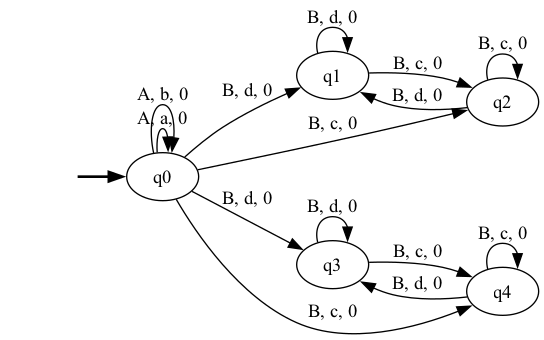
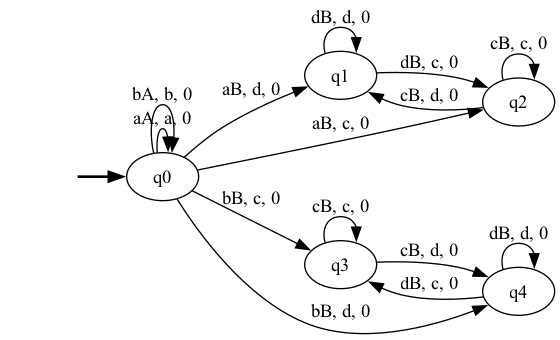
try

diff --git a/src/utils_pdfa/learnRDP.py b/src/utils_pdfa/learnRDP.py
@@ -27,20 +27,20 @@ def learnRDP2(H, obs, thres):
         # traj1 = trajs.pop(0)
 
         AO = get_candidate(o1,u1, H)  #get ao sets (can we get this set at thw start?
-        print("from ", o1, u1.name, " getting candidates : ")
-        print("AO",AO)
+        # print("from ", o1, u1.name, " getting candidates : ")
+        # print("AO",AO)
         for ao in AO:
             a2 = ao[0]
             o2 = ao[1]
             o2_int = get_int(o2)
             # print(o1, u1.name, ao)
-            print("time", u1.t)
+            # print("time", u1.t)
             traj2 = get_suffixes(pdfa, o1, u1, ao)
 
             #crete new candidate state here
             q2 = RDPState(pdfa.get_name(), u1, ao[0], o2, 0)
             q2.ix = traj2
-            print("name + trajs", q2.name, q2.ix)
+            # print("name + trajs", q2.name, q2.ix)
 
             # q2.add_traj(traj2,o1)
             q2.add_traj(traj2,o2)
@@ -49,7 +49,7 @@ def learnRDP2(H, obs, thres):
             for k in range(i[o2_int]):
                 #get all the u that are prefaced by o
                 q3 = states[o2_int][k]
-                print("comparing ", q2.name, " ", q3.name)
+                # print("comparing ", q2.name, " ", q3.name)
                 similar = test_distinct(q3, q2, o2, H, thres)
                 if similar and merge==False:
                     j = k
@@ -58,13 +58,13 @@ def learnRDP2(H, obs, thres):
             if merge==True:
                 #add the new state
                 q3 = state_to_merge_to
-                print("merging ", q2.name, " to ", q3.name)
-                print("adding transition", o1, q2.parent.name, q3.name, a2, o2, 0)
+                # print("merging ", q2.name, " to ", q3.name)
+                # print("adding transition", o1, q2.parent.name, q3.name, a2, o2, 0)
                 pdfa.add_transition(o1, q2.parent, q3, a2, o2, 0,  True)  #merge
                 # queue.append([o1, q2])
             else:
-                print("promoting", q2.name)
-                print("adding transition", [o1, q2.parent.name, q2.name, a2, o2, 0])
+                # print("promoting", q2.name)
+                # print("adding transition", [o1, q2.parent.name, q2.name, a2, o2, 0])
                 pdfa.add_transition(o1, q2.parent, q2, a2, o2, 0)
                 # pdfa.add_transition(o1, parent, q2)  #promote
                 queue.append([o2, q2])
@@ -72,7 +72,7 @@ def learnRDP2(H, obs, thres):
                 states[o2_int].append(q2)
                 q2.add_traj(traj2, o2)
                 i[o2_int] = i[o2_int] + 1
-    print(pdfa.transitions)
+    # print(pdfa.transitions)
     return pdfa
 
 

diff --git a/run.py b/run.py
@@ -4,7 +4,7 @@ import numpy as np
 from src.utils_pdfa.renderRDP import render
 import sys
 from src.utils_pdfa.save_to_json import save_json
-
+import time
 def main():
     H = int(sys.argv[2])
     K = int(sys.argv[3])
@@ -27,7 +27,10 @@ def main():
         RDPState.Rew[:, H - 1 - j] = [RDPState.Rew[i, H - 1 - j].union(RDPState.Rew[i, H - j]) for i in range(K)]
         RDPState.Trp[:, H - 1 - j] = [RDPState.Trp[i, H - 1 - j].union(RDPState.Trp[i, H - j]) for i in range(K)]
         # RDPState.Trptrp[:, H - 1 - j] = [RDPState.Trptrp[i, H - 1 - j].union(RDPState.Trptrp[i, H - j]) for i in range(K)]
+    t = time.time()
     RDP = learnRDP2(H,6, thres)
+    print("time taken: ", time.time()-t)
+
 #    RDP = learnRDP(H, thres)
 #     print("State space: ", len(RDP.states))
 

diff --git a/src/utils_pdfa/RDP_utils.py b/src/utils_pdfa/RDP_utils.py
@@ -55,11 +55,11 @@ def test_distinct(q1, q2, o, H, thres):
     q2_prob = q2.operatorC13()
     # print("here", q1_prob, q2_prob)
     seq = list(set(q1_prob[:, 0])) + list(set(q2_prob[:, 0]) - set(q1_prob[:, 0]))
-    print("comparing", q1.name, q2.name)
+    # print("comparing", q1.name, q2.name)
     for s in seq:
         p1 = get_probability(s, q1_prob)
         p2 = get_probability(s, q2_prob)
-        print(s, p1, p2, np.abs(p1 - p2))
+        # print(s, p1, p2, np.abs(p1 - p2))
         if np.abs(p1 - p2) > thres:
             return False
     return True

diff --git a/src/utils_pdfa/RDPState.py b/src/utils_pdfa/RDPState.py
@@ -113,7 +113,7 @@ def simTMaze(filename, K, H):
         D[k, 0] = '{}{}{}'.format( chr(65 + a), chr(97 + o), chr(48 + rewmap[r]))
         # go east H - 1 times
         for i in range(H):
-            print("here ", str(a), " ", str(o), " ", str(sp), " ", str(r))
+            # print("here ", str(a), " ", str(o), " ", str(sp), " ", str(r))
             #a = np.random.randint(len(sim.actions))
             a = np.random.choice([0,1,2,3], 1, p=[1/4, 1/4,1/4, 1/4])[0]
             s, sp, o, r = sim.take_action(a)

diff --git a/src/utils_pdfa/renderRDP.py b/src/utils_pdfa/renderRDP.py
@@ -62,10 +62,16 @@ def render(pdfa):
         r = pdfa.transitions[i][4]
         s1 = pdfa.transitions[i][5]
 
-        label = f"{a}"
+        label = f"{o1}"
+        label += f", {a}"
         label += f", {o}"
         label += f", {r}"
         c = "black"
+
+        if s=='q0' and s1 =='q0':
+            label = f"{a}"
+            label += f", {o}"
+            label += f", {r}"
         graph.edge(
             s,
             s1,
